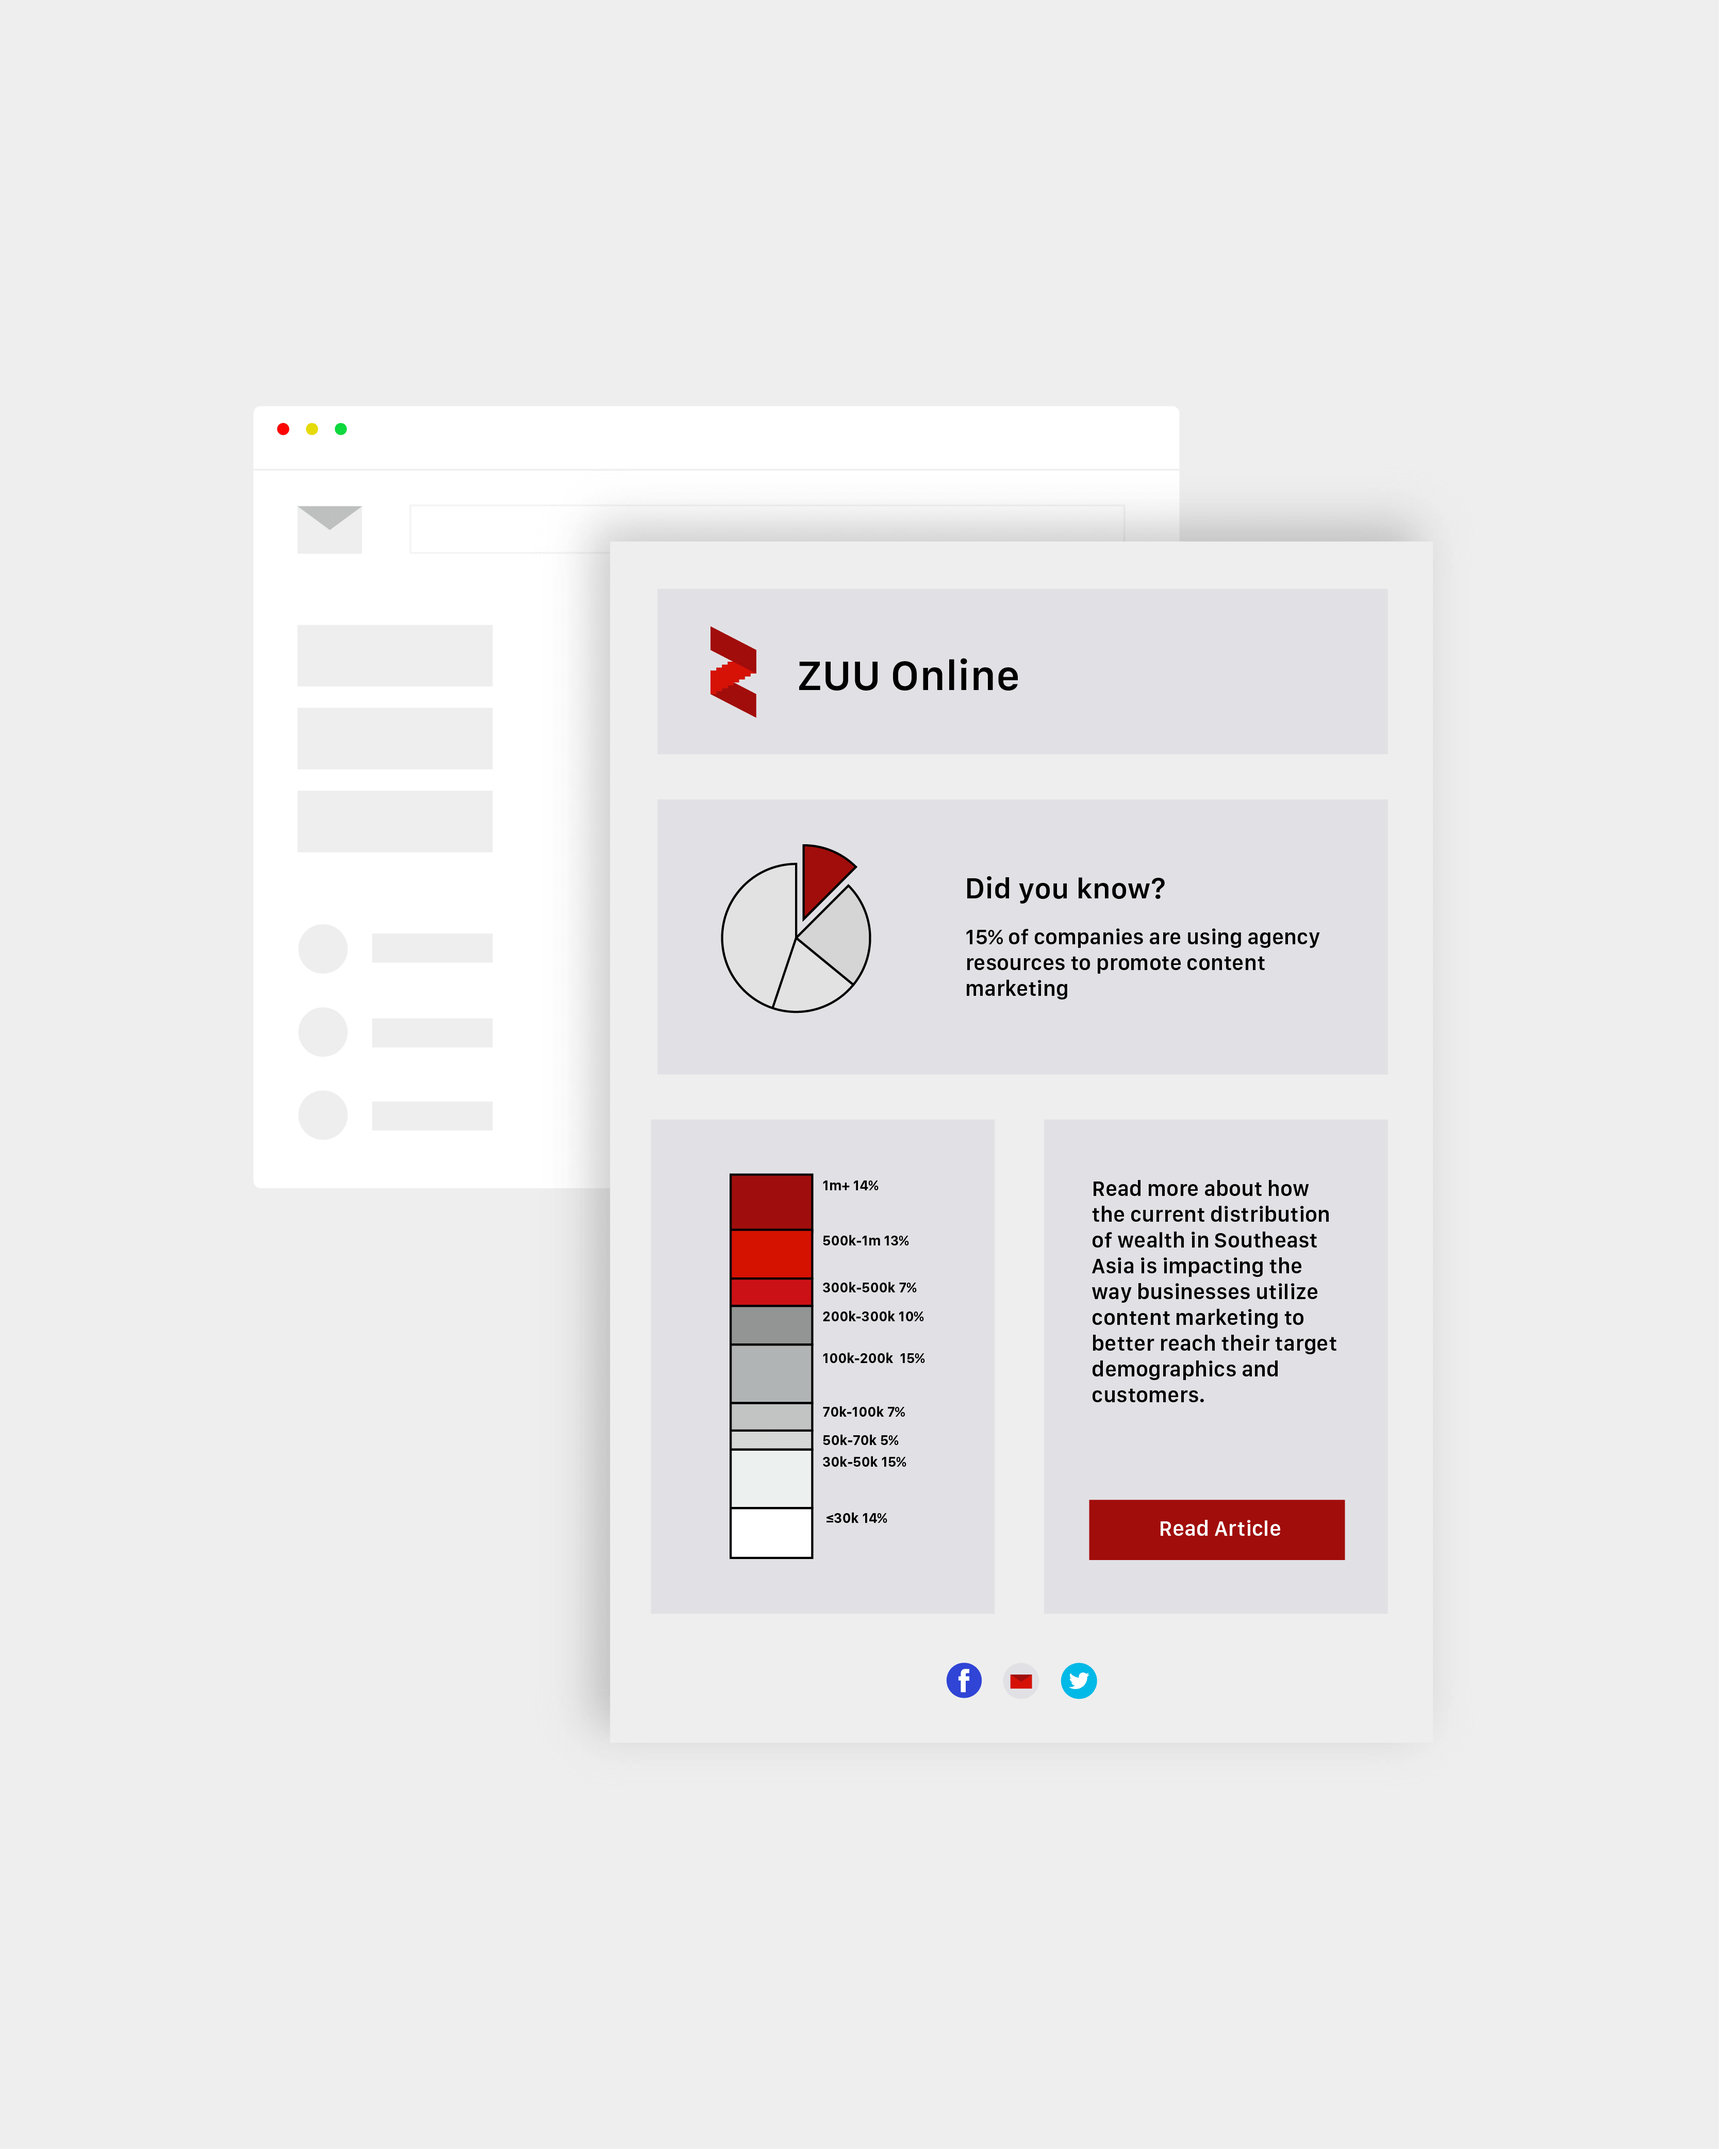
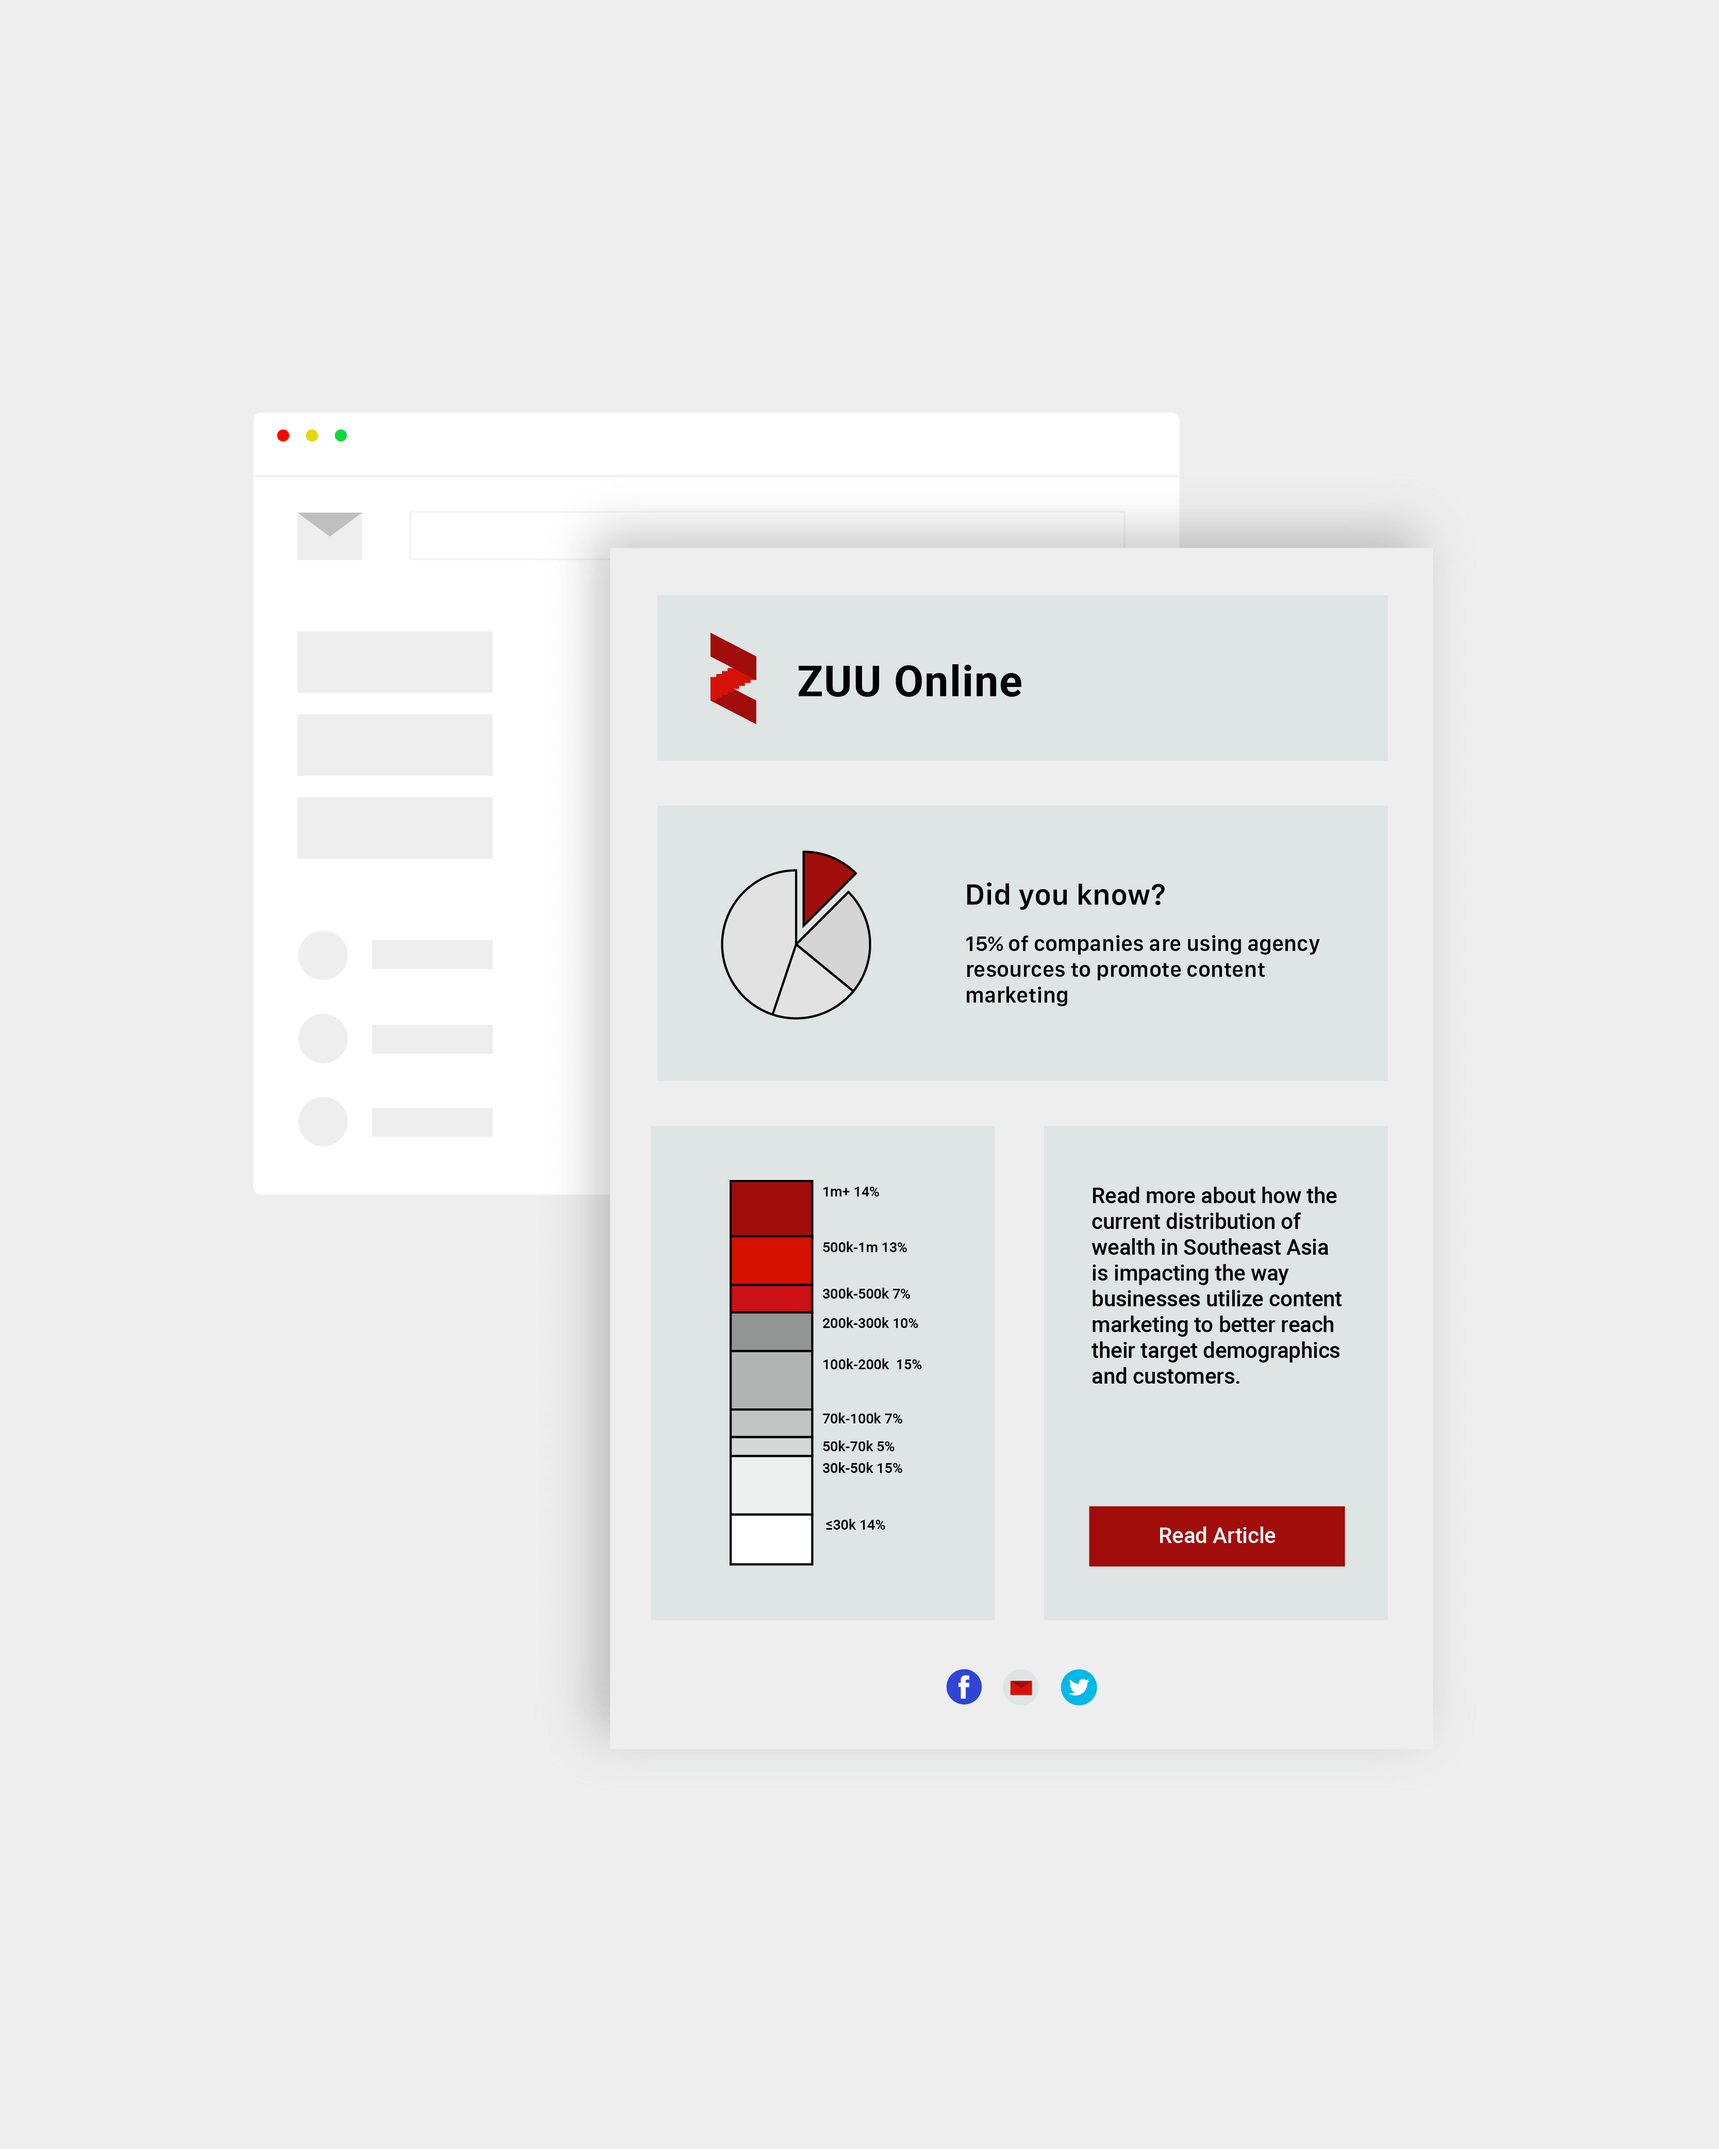
zuu changes

diff --git a/thread.html b/thread.html
@@ -59,14 +59,16 @@
           <div class="divider"></div>
 
           <div class="projecttext">
-            As art director, I led the layout design, created graphics for and edited all photos for the SS18 and FW18 issues of Thread Magazine. The SS18 issue focuses on technology and its impact on fashion and our lives while the FW18 issues closes in on college students' ideologies and cultures through stereotypical yearbook motifs.
+            As art director, I led the layout design, graphic design, typography and photo editing for the SS18 and FW18 issues of Thread Magazine. The SS18 issue focuses on technology and its impact on fashion and our lives while the FW18 issues closes in on college students' ideologies and cultures through stereotypical yearbook motifs.
           </div>
 
         </div>
 
         <div class="divider"></div>
 
-        <p class="projectsectiontitle">SS18: The Technology Issue </p>
+        <div class="projecttextcontainer">
+            <p class="projectsectiontitle">SS18: The Technology Issue </p>
+        </div>
 
         <div class="divider"></div>
 
@@ -74,7 +76,9 @@
 
         <div class="divider"></div>
 
-        <p class="projectsectiontitle">FW18: The Yearbook Issue</p>
+        <div class="projecttextcontainer">
+            <p class="projectsectiontitle">FW18: The Yearbook Issue</p>
+        </div>
 
         <div class="divider"></div>
 

diff --git a/zuu.html b/zuu.html
@@ -54,7 +54,7 @@
       <div class="projectcontainer">
 
         <div class="projectimage">
-          <img src="images/zuupageheader.png" alt="">
+          <img src="images/zuuedm.png" alt="">
         </div>
 
         <div class="divider"></div>
@@ -71,12 +71,12 @@
           <div class="divider"></div>
         </div>
 
-        <iframe class="widget" src="https://view.publitas.com/p222-16149/zuu-media-kit" allowfullscreen=""></iframe>
+        <iframe class="widget" src="https://view.publitas.com/p222-16149/zuu-media-kit/" allowfullscreen=""></iframe>
 
         <div class="divider"></div>
 
         <div class="projectimage">
-          <img src="images/zuubusinesscards.jpg" alt="">
+          <img src="images/janedoecard.png" alt="">
         </div>
 
         <div class="divider"></div>

diff --git a/index.html b/index.html
@@ -109,7 +109,7 @@
 
                 <p class="projectnumber">05</p>
                 <p class="projectdescription">Thread Magazine<br><br>
-                Former Art Director of Cornell's leading fashion magazine. Led layout, graphic and photography</p>
+                Former Art Director of Cornell's leading fashion magazine. Led layout, graphic, typography and photo editing</p>
 
             </div>
           </a>
